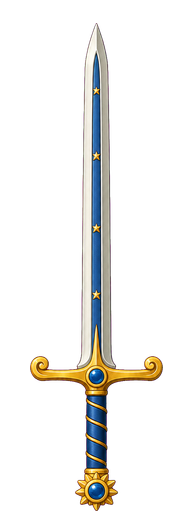
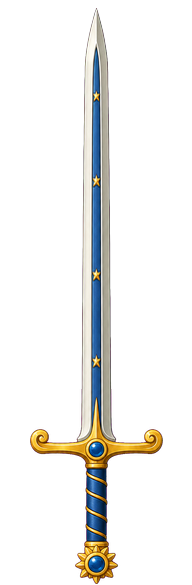
Legendary Sword: longer blade and a gold glow
Blade stretched 1.3x above the guard (canvas 192x585, padded at the top so the
grip is unchanged); heldFx glow:#ffd27a, the blade-only halo in gold.

diff --git a/docs/equipment-plan.md b/docs/equipment-plan.md
@@ -213,8 +213,10 @@ takes over; nothing is to be done about it.
   steel so it reads apart from the Dragonslayer's green; `tools/art/jobs/weapons-r8.json`, one candidate, cut by weaponfit
   at the Long Sword's length and grip on a 192 px canvas): a gold crossguard with scrolled ends and a sapphire, a gold
   sunburst pommel with a sapphire, a royal-blue grip wound with gold wire, a slim steel blade with a royal-blue fuller
-  set with small gold stars. One-handed, so smaller and plainer than the Dragonslayer by design. Preview
-  `docs/art/equipment/legendary-sword.png` (Long Sword, Legendary Sword, Dragonslayer).
+  set with small gold stars. One-handed, so smaller and plainer than the Dragonslayer by design. Then (owner, same day)
+  the blade stretched 1.3x above the guard (canvas 192x585, padded at the top, grip unchanged) and a gold blade glow,
+  `heldFx: glow:#ffd27a`. Preview `docs/art/equipment/legendary-sword.png` (Long Sword; Legendary Sword at guard and in
+  a held pose).
 - **Prop effects** (`heldFx` on the row, `Render/PixiRenderer/weaponFX.js`): an effect is built as a child of the
   weapon's sprite, so it moves, turns, hides and goes with the prop through every guard and attack; the arm rig ticks it
   each frame. Two kinds so far:
